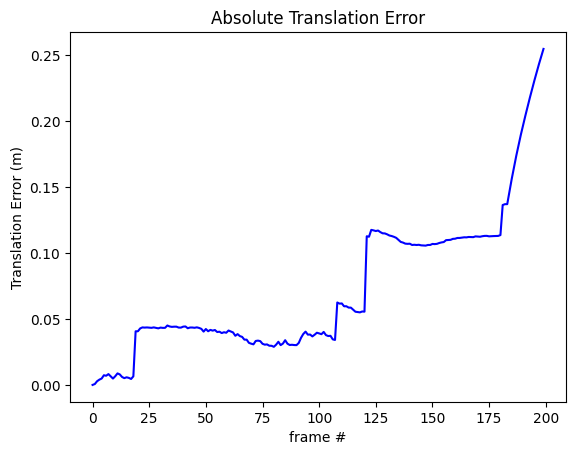
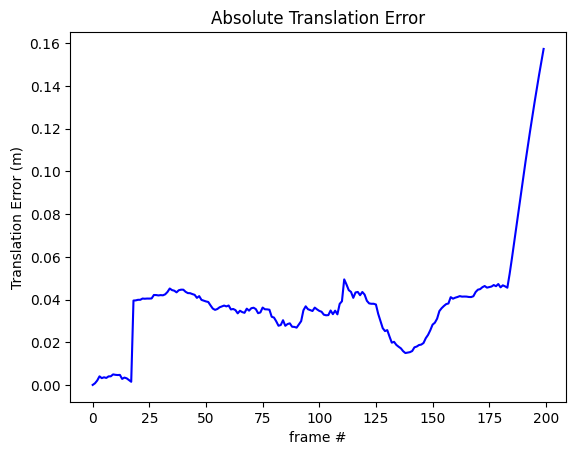
eval class

diff --git a/eval.py b/eval.py
@@ -92,7 +92,7 @@ class Eval:
 			pitch_list.append(pitch)
 			roll_list.append(roll)
 
-		return yaw_list, pitch_list, roll_list
+		return np.array(yaw_list), np.array(pitch_list), np.array(roll_list)
 
 	def compute_ATE(self, gt_poses, vo_poses):
 		""" Compute RMSE of ATE (Absolute Trajectory Error)
@@ -149,7 +149,7 @@ class Eval:
 			ys.append(pose[1, 3])
 			zs.append(pose[2, 3])
 
-		return xs, ys, zs
+		return np.array(xs), np.array(ys), np.array(zs)
 
 	def update(self):
 		self.add_pose()
@@ -158,15 +158,13 @@ class Eval:
 		if self.vo.frame_id > 0:
 			self.inlier_ratios.append(self.vo.inlier_ratio)
 
-	def evaluate(self):
-		name = self.name
+	def evaluate(self, traj=None):
 		result = {}
+		result['name'] = self.name
 
 		# Create result directory
-		res_dir = f'./results/{name}'
-		error_dir = f'{res_dir}/metrics.txt'
+		res_dir = f'./results/{self.name}'
 		plot_path = f'{res_dir}/plots/'
-		# f = open(error_dir, 'w')
 
 		utils.create_dir(res_dir)
 		utils.create_dir(plot_path)
@@ -180,13 +178,6 @@ class Eval:
 		# ---- Absolute Errors ----
 		rot_errors, trans_errors = self.compute_errors(gt_poses, vo_poses)
 
-		utils.plot_rotation_erros(rot_errors,
-								  title='Absolute Rotation Error',
-								  save_path=f'{plot_path}/rotation_error.png')
-		utils.plot_translation_error(trans_errors,
-									 title="Absolute Translation Error",
-									 save_path=f'{plot_path}/translation_error.png')
-
 		# Absolute Trajectory Error (ATE)
 		ate = np.sqrt(np.mean(np.array(trans_errors) ** 2))  # Root Mean Squared Error
 		print(f'Absolute Trajectory Error (ATE) [m]: {ate:.6f}')
@@ -199,13 +190,6 @@ class Eval:
 
 		# ---- Relative Errors ----
 		rel_rot_errors, rel_trans_errors = self.compute_errors(rel_gt_poses, rel_vo_poses)
-
-		utils.plot_rotation_erros(rel_rot_errors,
-								  title='Relative Rotation Error',
-								  save_path=f'{plot_path}/rel_rotation_error.png')
-		utils.plot_translation_error(rel_trans_errors,
-									 title="Relative Translation Error",
-									 save_path=f'{plot_path}/rel_translation_error.png')
 
 		# Relative Trajectory Error (RTE)
 		rte = np.sqrt(np.mean(np.array(rel_trans_errors) ** 2))
@@ -224,7 +208,9 @@ class Eval:
 		rel_yaw, rel_pitch, rel_roll = self.compute_orientations(rel_vo_poses)
 		true_rel_yaw, true_rel_pitch, true_rel_roll = self.compute_orientations(rel_gt_poses)
 
-		# ---- RANSAC Inlier Ratio ----
+		yaw_errors, pitch_errors, roll_errors = yaw - true_yaw, pitch - true_pitch, roll - true_roll
+
+
 		inlier_ratios = self.inlier_ratios
 		print(f'RANSAC inlier ratio: {np.mean(inlier_ratios):.3f}')
 		result['inlier_ratio'] = inlier_ratios
@@ -235,12 +221,32 @@ class Eval:
 		result['runtime'] = runtime
 
 		# -------------------------
-		# Extract positions for 3d plot
 		xs, ys, zs = self.get_positions(vo_poses)
 		true_xs, true_ys, true_zs = self.get_positions(gt_poses)
+		x_errors, y_errors, z_errors = xs - true_xs, ys - true_ys, zs - true_zs
 
-		utils.plot_3d_traj(xs, ys, zs, true_xs, true_ys, true_zs)
-		utils.plot_inlier_ratio(self.inlier_ratios)
+		# ---- PLOTS ----
+		utils.plot_3d_traj(xs, ys, zs, true_xs, true_ys, true_zs,
+						   save_path=f'{plot_path}/3d_traj.png')
+
+		utils.plot_translation_error(trans_errors,
+									 title="Absolute Translation Error",
+									 save_path=f'{plot_path}/translation_error.png')
+		utils.plot_rotation_erros(rot_errors,
+								  title='Absolute Rotation Error',
+								  save_path=f'{plot_path}/rotation_error.png')
+
+		utils.plot_rotation_erros(rel_rot_errors,
+								  title='Relative Rotation Error',
+								  save_path=f'{plot_path}/rel_rotation_error.png')
+		utils.plot_translation_error(rel_trans_errors,
+									 title="Relative Translation Error",
+									 save_path=f'{plot_path}/rel_translation_error.png')
+		utils.plot_inlier_ratio(self.inlier_ratios,
+								save_path=f'{plot_path}/inlier_ratio.png')
+
+		utils.plot_position_error(x_errors, y_errors, z_errors, save_path=f'{plot_path}/position_errors.png')
+		utils.plot_orientation_error(yaw_errors, pitch_errors, roll_errors, save_path=f"{plot_path}/orientation_errors.png")
 
 		utils.plot_orientation_angle(true_yaw, yaw, 'yaw',
 									 title='Yaw across frames',
@@ -261,7 +267,7 @@ class Eval:
 		utils.plot_orientation_angle(true_rel_roll, rel_roll, 'rel_roll',
 									 title='Relative roll across frames',
 									 save_path=f'{plot_path}/rel_roll.png')
+		if traj is not None:
+			cv2.imwrite(f'{plot_path}/2d_live_traj.png', traj)
 
-	# TODO: Find where to put the line below
-	# cv2.imwrite('plots/map.png', vo_visualizer.traj)
-	# TODO: Make plot for relative yaw, pitch, roll error
+		# TODO: Logging, 'results'-dict contains the metrics for logging

diff --git a/utils.py b/utils.py
@@ -19,14 +19,15 @@ def create_dir(dir_path):
 		os.makedirs(dir_path)
 
 
-def plot_inlier_ratio(ratios, save=True):
+def plot_inlier_ratio(ratios, save=True, save_path="", show=True):
 	plt.plot([i for i in range(len(ratios))], ratios, color='blue')
 	plt.title('RANSAC inlier ratio across frames')
 	plt.xlabel('frame #')
 	plt.ylabel('Inlier Ratio')
 	if save:
-		plt.savefig('plots/inlier_ratio.png', bbox_inches='tight')
-	plt.show()
+		plt.savefig(save_path, bbox_inches='tight')
+	if show:
+		plt.show()
 
 
 def plot_translation_error(drift, title="", save_path="", save=True, show=True):
@@ -51,6 +52,34 @@ def plot_rotation_erros(rot_errors, title="", save_path="", save=True, show=True
 		plt.show()
 
 
+def plot_position_error(x_errors, y_errors, z_errors, save_path="", save=True, show=True):
+	plt.plot([i for i in range(len(x_errors))], x_errors, label='x', color='red')
+	plt.plot([i for i in range(len(y_errors))], y_errors, label='y', color='green')
+	plt.plot([i for i in range(len(z_errors))], z_errors, label='z', color='blue')
+	plt.title('Position Error across frames')
+	plt.xlabel('frame #')
+	plt.ylabel('Position Error [m]')
+	plt.legend()
+	if save:
+		plt.savefig(f'{save_path}', bbox_inches='tight')
+	if show:
+		plt.show()
+
+
+def plot_orientation_error(yaw_errors, pitch_errors, roll_errors, save_path="", save=True, show=True):
+	plt.plot([i for i in range(len(yaw_errors))], yaw_errors, label='yaw', color='red')
+	plt.plot([i for i in range(len(pitch_errors))], pitch_errors, label='pitch', color='green')
+	plt.plot([i for i in range(len(roll_errors))], roll_errors, label='roll', color='blue')
+	plt.title('Orientation Error across frames')
+	plt.xlabel('frame #')
+	plt.ylabel('Orientation Error [deg]')
+	plt.legend()
+	if save:
+		plt.savefig(f'{save_path}', bbox_inches='tight')
+	if show:
+		plt.show()
+
+
 def plot_orientation_angle(theta_true, theta_hat, angle_name, title="", save_path="", save=True, show=True):
 	plt.plot([i for i in range(len(theta_true))], theta_true, label=f'{angle_name}_true', color='green')
 	plt.plot([i for i in range(len(theta_hat))], theta_hat, label=f'{angle_name}_estimated', color='red')
@@ -63,19 +92,35 @@ def plot_orientation_angle(theta_true, theta_hat, angle_name, title="", save_pat
 		plt.show()
 
 
-def plot_3d_traj(xs, ys, zs, true_xs, true_ys, true_zs, save=True):
+def plot_2d_traj(traj, save=True, save_path="", show=True):
+	#fig = plt.figure()
+	plt.imshow(traj)
+	#plt.plot(xs, zs, label='Estimated', color='red')
+	#plt.plot(true_xs, true_zs, label='Ground Truth', color='green')
+	plt.title('2D trajectory (from above)')
+	plt.xlabel('x [m]')
+	plt.ylabel('z [m]')
+	plt.legend()
+	if save:
+		plt.savefig(save_path, bbox_inches='tight')
+	if show:
+		plt.show()
+
+
+def plot_3d_traj(xs, ys, zs, true_xs, true_ys, true_zs, save=True, save_path="", show=True):
 	fig = plt.figure()
 	ax = fig.gca(projection='3d')
-	ax.plot(xs, ys, zs, label='Estimated Trajectory', color='red')
+	ax.plot(xs, ys, zs, label='Estimated', color='red')
 	ax.plot(true_xs, true_ys, true_zs, label='Ground Truth', color='green')
 	ax.set_title('3D trajectory')
-	ax.set_xlabel('X')
-	ax.set_ylabel('Y')
-	ax.set_zlabel('Z')
+	ax.set_xlabel('x [m]')
+	ax.set_ylabel('y [m]')
+	ax.set_zlabel('z [m]')
 	ax.legend()
 	if save:
-		plt.savefig('plots/3d_traj.png', bbox_inches='tight')
-	plt.show()
+		plt.savefig(save_path, bbox_inches='tight')
+	if show:
+		plt.show()
 
 
 def compute_perpendicular_distance(points, a, b, c):
@@ -104,6 +149,7 @@ def draw_lines(frame, lines, pts1, pts2):
 
 	return frame
 
+
 def adjust_gamma(image, gamma=1.0):
     # source: https://www.pyimagesearch.com/2015/10/05/opencv-gamma-correction/
     img = image.copy()
@@ -111,6 +157,7 @@ def adjust_gamma(image, gamma=1.0):
     look_up_table = np.array([((i / 255.0) ** inverted_gamma) * 255
                       for i in np.arange(0, 256)]).astype("uint8")
     return cv2.LUT(img , look_up_table)
+
 
 def preprocess_images(filepath, default=False, morphology=False):
 	out = []

diff --git a/config.py b/config.py
@@ -53,20 +53,22 @@ class Config(DefaultConfig):
             pass
 
     def parse_detector(self, detector_string):
+        params = {} if self.detector_params is None else self.detector_params
+
         if detector_string.upper() == "FAST":
-            self.detector = detector.FAST_Detector(**self.detector_params)
+            self.detector = detector.FAST_Detector(**params)
         elif detector_string.upper() == "HARRIS":
             self.detector = detector.HarrisDetector()
         elif detector_string.upper() == "CENSURE":
-            self.detector = detector.CenSurE_Detector(**self.detector_params)
+            self.detector = detector.CenSurE_Detector(**params)
         elif detector_string.upper() == "SIFT":
-            self.detector = detector.SIFT(**self.detector_params)
+            self.detector = detector.SIFT(**params)
         elif detector_string.upper() == "SURF":
-            self.detector = detector.SURF(**self.detector_params)
+            self.detector = detector.SURF(**params)
         elif detector_string.upper() == "ORB":
-            self.detector = detector.ORB(**self.detector_params)
+            self.detector = detector.ORB(**params)
         elif detector_string.upper() == "AKAZE":
-            self.detector = detector.AKAZE(**self.detector_params)
+            self.detector = detector.AKAZE(**params)
         else:
             raise ModuleNotFoundError(f"No detector <{self.detector}> found.")
 

diff --git a/main.py b/main.py
@@ -16,7 +16,7 @@ def run(configuration: dict):
 	config = Config(configuration)
 	H, W = config.H, config.W
 	pin_hole_params = config.pin_hole_params
-	images = config.images
+	image_path = config.images
 	annotations = config.annotations
 
 	# Initilalize
@@ -26,8 +26,8 @@ def run(configuration: dict):
 	vo_visualizer = VO_Visualizer(vo, W, H)
 
 	# Fetch and initialize preprocessing of images
-	orig_images = preprocess_images(images, default=True)[:200]
-	preprocessed_images = preprocess_images(images, config.toggle_morphology)[:200]
+	orig_images = preprocess_images(image_path, default=True)[:200]
+	preprocessed_images = preprocess_images(image_path, morphology=config.toggle_morphology)[:200]
 
 	# Run
 	for i, img in enumerate(preprocessed_images):
@@ -35,7 +35,7 @@ def run(configuration: dict):
 		vo_eval.update()
 		vo_visualizer.show(img, orig_images[i])
 
-	vo_eval.evaluate()
+	vo_eval.evaluate(traj=vo_visualizer.traj)
 
 
 if __name__ == '__main__':

diff --git a/visual_odometry.py b/visual_odometry.py
@@ -51,6 +51,9 @@ class VisualOdometry:
         self.correspondence_method = config.correspondence_method
         self.k_min_features = config.k_min_features
 
+        #self.detector = cv2.SIFT_create()
+        #self.detector.set_ex
+
         if self.correspondence_method == 'tracking':
             self.point_corr_computer = OpticalFlowTracker(config.lk_params)
         else:
